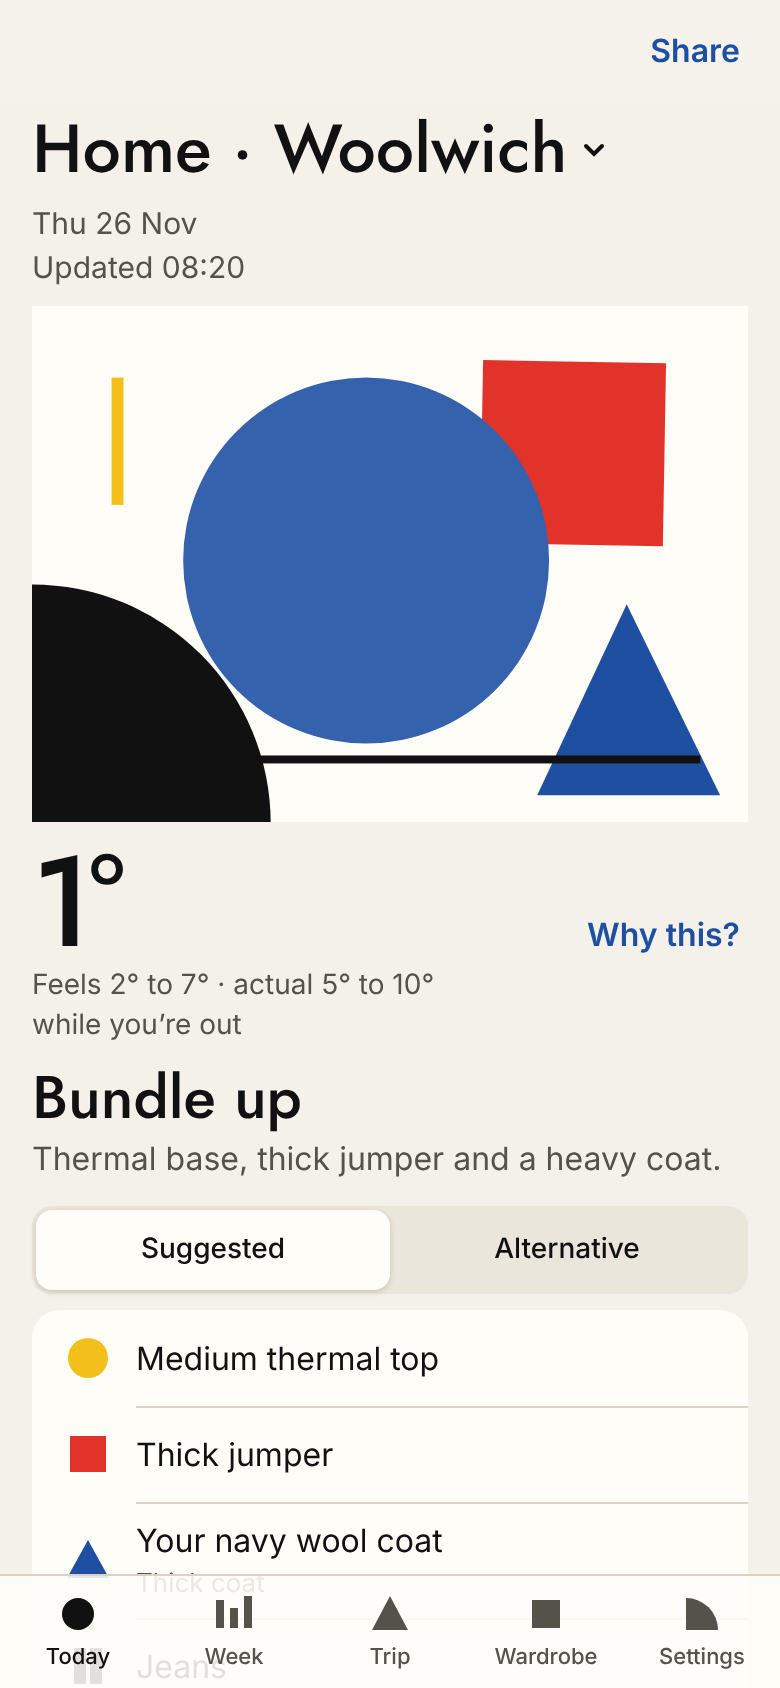
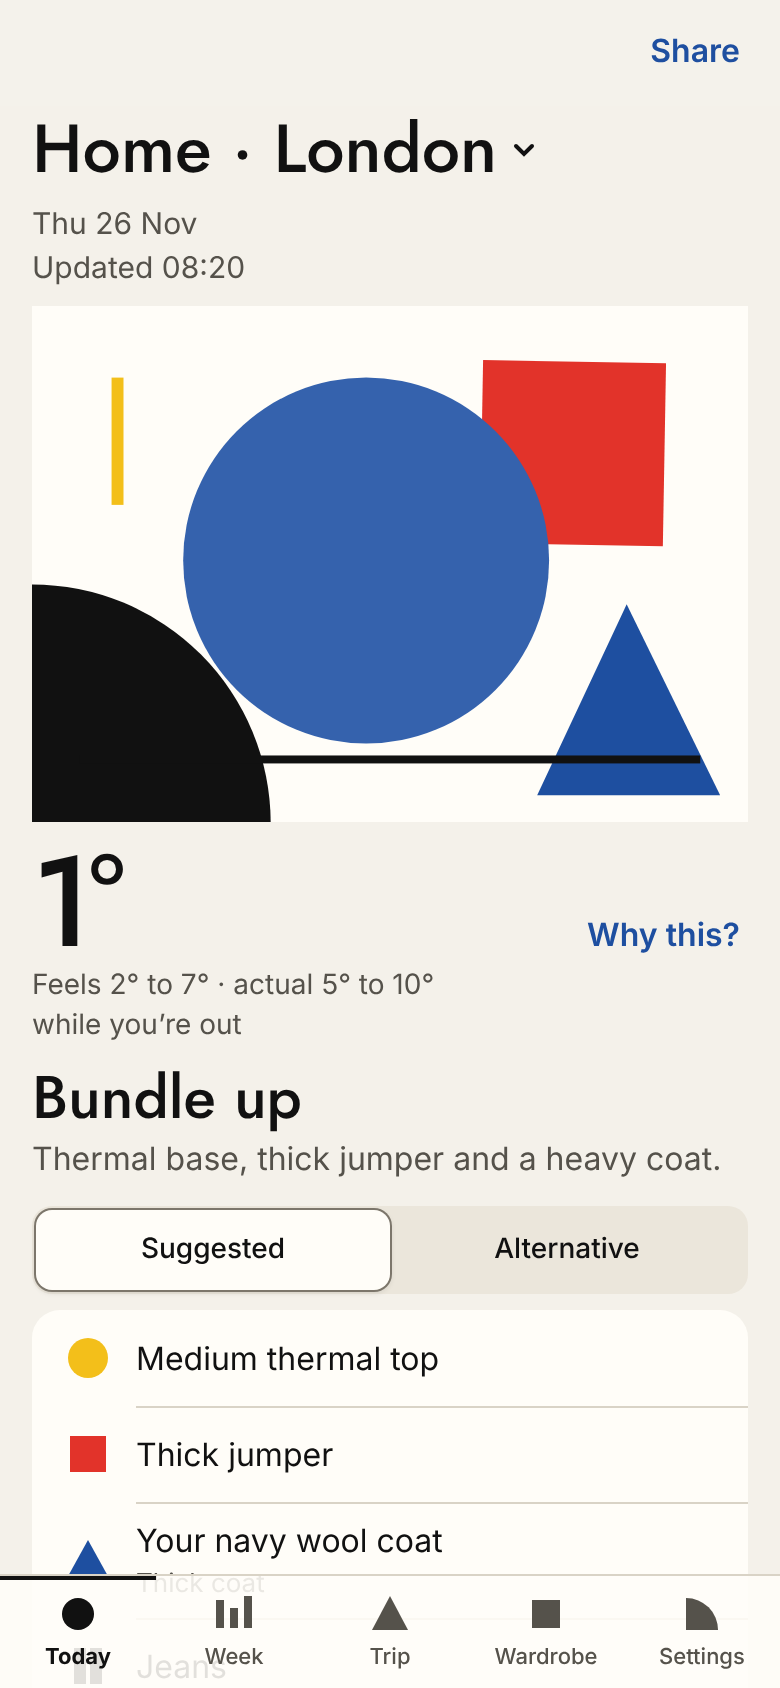
chore: use a neutral London location in screenshots, fixtures and copy

Changed region(s): [[0.3385, 0.0616, 0.7385, 0.1232]]

diff --git a/src/data/push.test.ts b/src/data/push.test.ts
@@ -81,7 +81,7 @@ function deps(server: ReturnType<typeof fakeServer>, over: Partial<PushDeps> & {
     requestPermission: vi.fn(async () => 'granted' as NotificationPermission),
     registration: async () => ({ pushManager }) as unknown as ServiceWorkerRegistration,
     request: (subscription, id) =>
-      buildSubscribeRequest({ subscription, place: { lat: 51.4934, lon: 0.0098 }, tz: 'Europe/London', settings: settingsWith(), comfort: DEFAULT_COMFORT, id }),
+      buildSubscribeRequest({ subscription, place: { lat: 51.5072, lon: -0.1276 }, tz: 'Europe/London', settings: settingsWith(), comfort: DEFAULT_COMFORT, id }),
     ...over,
   };
   return { d, pushManager, sub };
@@ -109,7 +109,7 @@ describe('base64UrlToBytes', () => {
 
 describe('request building', () => {
   it('rounds coordinates to two decimals', () => {
-    expect(roundCoord(51.4934)).toBe(51.49);
+    expect(roundCoord(51.5072)).toBe(51.51);
     expect(roundCoord(-0.1278)).toBe(-0.13);
     expect(roundCoord(0.005)).toBe(0.01);
   });
@@ -146,10 +146,10 @@ describe('request building', () => {
   });
 
   it('builds a full subscribe request, with the id only when updating', () => {
-    const base = { subscription: SUB, place: { lat: 51.4934, lon: 0.0098 }, tz: 'Europe/London', settings: settingsWith(), comfort: DEFAULT_COMFORT };
+    const base = { subscription: SUB, place: { lat: 51.5072, lon: -0.1276 }, tz: 'Europe/London', settings: settingsWith(), comfort: DEFAULT_COMFORT };
     const fresh = buildSubscribeRequest(base);
     expect(fresh).not.toHaveProperty('id');
-    expect(fresh).toMatchObject({ subscription: SUB, lat: 51.49, lon: 0.01, tz: 'Europe/London', schedule: { morning: '07:00' } });
+    expect(fresh).toMatchObject({ subscription: SUB, lat: 51.51, lon: -0.13, tz: 'Europe/London', schedule: { morning: '07:00' } });
     expect(buildSubscribeRequest({ ...base, id: 's9' }).id).toBe('s9');
   });
 
@@ -159,13 +159,13 @@ describe('request building', () => {
   });
 
   it('signs only what the server uses, so a new endpoint alone does not re-post', () => {
-    const base = { place: { lat: 51.4934, lon: 0.0098 }, tz: 'Europe/London', settings: settingsWith(), comfort: DEFAULT_COMFORT };
+    const base = { place: { lat: 51.5072, lon: -0.1276 }, tz: 'Europe/London', settings: settingsWith(), comfort: DEFAULT_COMFORT };
     const a = requestSignature(buildSubscribeRequest({ ...base, subscription: SUB }));
     const b = requestSignature(buildSubscribeRequest({ ...base, subscription: { endpoint: 'other', keys: { p256dh: '', auth: '' } }, id: 'x' }));
     expect(a).toBe(b);
-    const moved = requestSignature(buildSubscribeRequest({ ...base, place: { lat: 51.52, lon: 0.0098 }, subscription: SUB }));
+    const moved = requestSignature(buildSubscribeRequest({ ...base, place: { lat: 51.52, lon: -0.1276 }, subscription: SUB }));
     expect(moved).not.toBe(a);
-    const nudged = requestSignature(buildSubscribeRequest({ ...base, place: { lat: 51.4912, lon: 0.0098 }, subscription: SUB }));
+    const nudged = requestSignature(buildSubscribeRequest({ ...base, place: { lat: 51.5051, lon: -0.1276 }, subscription: SUB }));
     expect(nudged).toBe(a);
   });
 
@@ -304,7 +304,7 @@ describe('enablePush', () => {
     const opts = (pushManager.subscribe.mock.calls[0] as unknown as [PushSubscriptionOptionsInit])[0];
     expect(opts.userVisibleOnly).toBe(true);
     expect([...(opts.applicationServerKey as Uint8Array)]).toEqual([1, 2, 3]);
-    expect(s.bodies[0]).toMatchObject({ lat: 51.49, lon: 0.01, tz: 'Europe/London', subscription: SUB });
+    expect(s.bodies[0]).toMatchObject({ lat: 51.51, lon: -0.13, tz: 'Europe/London', subscription: SUB });
   });
 
   it('calls requestPermission synchronously, inside the tap', () => {

diff --git a/tests/e2e/fixtures.ts b/tests/e2e/fixtures.ts
@@ -73,14 +73,14 @@ export function openMeteoForecast() {
     daily.wind_gusts_10m_max.push(35);
     daily.weather_code.push(d % 2 ? 2 : 80);
   }
-  return { latitude: 51.49, longitude: 0.07, timezone: 'Europe/London', utc_offset_seconds: 0, hourly, daily };
+  return { latitude: 51.51, longitude: -0.13, timezone: 'Europe/London', utc_offset_seconds: 0, hourly, daily };
 }
 
-export const PLACE = { id: 'p1', name: 'Woolwich', detail: 'England', lat: 51.49, lon: 0.07, kind: 'home' };
+export const PLACE = { id: 'p1', name: 'London', detail: 'England', lat: 51.51, lon: -0.13, kind: 'home' };
 
 const GEOCODE = {
   results: [
-    { id: 1, name: 'Woolwich', admin1: 'England', country: 'United Kingdom', latitude: 51.49, longitude: 0.07 },
+    { id: 1, name: 'London', admin1: 'England', country: 'United Kingdom', latitude: 51.51, longitude: -0.13 },
     { id: 2, name: 'Lisbon', admin1: 'Lisbon', country: 'Portugal', latitude: 38.72, longitude: -9.14 },
   ],
 };

diff --git a/src/components/poster.test.ts b/src/components/poster.test.ts
@@ -9,7 +9,7 @@ const measure: Measure = (t, f) => t.length * Number(/(\d+)px/.exec(f)![1]) * 0.
 const at = (size: number) => `500 ${size}px Jost`;
 
 const day: PosterData = {
-  place: 'Woolwich',
+  place: 'London',
   dateLabel: 'Thu 26 Nov',
   feelsLabel: 'Feels 3° / 9°',
   verdict: 'Coat weather',
@@ -92,7 +92,7 @@ describe('layoutPoster', () => {
 
   it('includes the place, date, feels range, verdict and wordmark', () => {
     const all = layoutPoster(day, measure).text.map((t) => t.text);
-    expect(all).toEqual(expect.arrayContaining(['Woolwich', 'Thu 26 Nov', 'Feels 3° / 9°', 'layered']));
+    expect(all).toEqual(expect.arrayContaining(['London', 'Thu 26 Nov', 'Feels 3° / 9°', 'layered']));
     expect(all.join(' ')).toContain('Coat weather');
   });
 });

diff --git a/tests/e2e/smoke.spec.ts b/tests/e2e/smoke.spec.ts
@@ -6,8 +6,8 @@ import { expect, RETURNING, seed, test } from './fixtures';
 test('first run: pick a place, skip the rest, and Today gives a verdict', async ({ page }) => {
   await page.goto('/');
   await expect(page.getByRole('heading', { name: 'Where are you?' })).toBeVisible();
-  await page.getByRole('searchbox').fill('Woolwich');
-  await page.getByRole('button', { name: /Woolwich/ }).click();
+  await page.getByRole('searchbox').fill('London');
+  await page.getByRole('button', { name: /London/ }).click();
   await expect(page.getByRole('heading', { name: 'How do you feel the cold?' })).toBeVisible();
   await page.getByRole('button', { name: 'Skip setup' }).click();
 

diff --git a/functions/api/forecast.test.ts b/functions/api/forecast.test.ts
@@ -87,7 +87,7 @@ describe('onRequestGet', () => {
     vi.stubGlobal('fetch', strictFetch);
     vi.stubGlobal('caches', { default: { match: async () => undefined, put: async () => undefined } });
     try {
-      const request = new Request('https://layered.test/api/forecast?lat=51.49&lon=0.07&tz=Europe/London');
+      const request = new Request('https://layered.test/api/forecast?lat=51.51&lon=-0.13&tz=Europe/London');
       const res = await onRequestGet({ request } as unknown as Parameters<typeof onRequestGet>[0]);
       expect(res.status).toBe(200);
       expect(((await res.json()) as { source: string }).source).toBe('met-norway');

diff --git a/functions/_lib/push.test.ts b/functions/_lib/push.test.ts
@@ -65,10 +65,10 @@ describe('subscribe validation', () => {
 
   it('strips fields the Worker does not need', () => {
     const extra = request();
-    (extra.profile as unknown as Record<string, unknown>).name = 'Daniel';
+    (extra.profile as unknown as Record<string, unknown>).name = 'Alex';
     (extra as unknown as Record<string, unknown>).email = 'x@example.com';
     const r = parse(extra);
-    expect(r.ok && JSON.stringify(r.body)).not.toMatch(/Daniel|example/);
+    expect(r.ok && JSON.stringify(r.body)).not.toMatch(/Alex|example/);
   });
 
   it('checks sizes: 8 KB by body and by header', async () => {

diff --git a/scripts/lighthouse.ts b/scripts/lighthouse.ts
@@ -14,7 +14,7 @@ import { pathToFileURL } from 'node:url';
 export type Budgets = Record<string, number>;
 export type Scores = Record<string, number>;
 
-const PLACE = { id: 'lh', name: 'Woolwich', detail: 'England', lat: 51.49, lon: 0.07, kind: 'home' };
+const PLACE = { id: 'lh', name: 'London', detail: 'England', lat: 51.51, lon: -0.13, kind: 'home' };
 
 /** Cold, showery days in the app's parsed shape, starting at today's midnight UTC. */
 export function fixtureForecast(now: number) {

diff --git a/src/screens/settings/About.tsx b/src/screens/settings/About.tsx
@@ -25,7 +25,7 @@ export function AboutSection() {
         <span class="meta num">{__APP_VERSION__}</span>
       </div>
     </div>
-    <p class="group-foot" style={{ textAlign: 'center', marginTop: '24px' }}>Made in Woolwich by torrentsec</p>
+    <p class="group-foot" style={{ textAlign: 'center', marginTop: '24px' }}>Made in London by torrentsec</p>
     </>
   );
 }

diff --git a/index.html b/index.html
@@ -1,7 +1,7 @@
 <!--
   ●  ■  ▲   layered
   dress for the coldest hour.
-  — torrentsec · woolwich, london
+  — torrentsec · london
 -->
 <!doctype html>
 <html lang="en-GB">

diff --git a/README.md b/README.md
@@ -5,7 +5,7 @@ Layered turns your local forecast into what to wear, from the clothes you actual
 **Live:** https://layered-a9i.pages.dev
 
 <p align="center">
-  <img src="docs/images/today.png" width="260" alt="Today in Woolwich: feels 1°, Bundle up. Thermal base, thick jumper and a heavy coat, with your navy wool coat named in the list.">
+  <img src="docs/images/today.png" width="260" alt="Today in London: feels 1°, Bundle up. Thermal base, thick jumper and a heavy coat, with your navy wool coat named in the list.">
   <img src="docs/images/week.png" width="260" alt="Week: tomorrow's outfit, then each of the next 16 days with its verdict, rain chance and feels-like range.">
   <img src="docs/images/wardrobe.png" width="260" alt="Wardrobe: 10 of 23 categories set, with quantities per thickness for each category.">
 </p>

diff --git a/docs/sprints/sprint-03.md b/docs/sprints/sprint-03.md
@@ -66,7 +66,7 @@ Only one seam, a single line in Settings. That's the lowest yet.
 **Inspected in production:**
 - The page, the service worker, `humans.txt` and the HTML signature.
 - `/api/push/key`, `/api/forecast` (MET Norway), and a full `/api/sync` round trip.
-- The live site in a browser with **real weather**: Woolwich, feels −2° to −1° (actual 2° to 3°), "Bundle up", no console errors.
+- The live site in a browser with **real weather**: London, feels −2° to −1° (actual 2° to 3°), "Bundle up", no console errors.
 
 **Hygiene before release:**
 - All 45 commits are authored by torrentsec.
